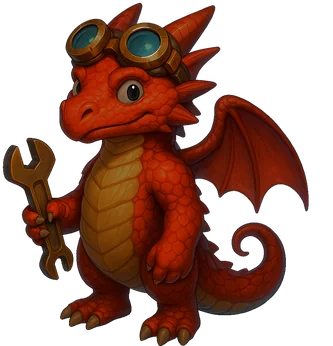
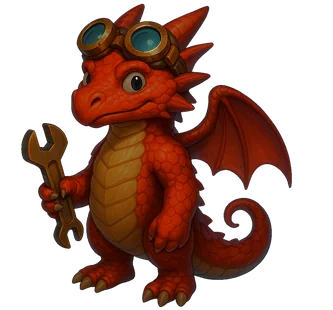
Hoardling: build 6fe3e2d8b9

diff --git a/hoardling/game.js b/hoardling/game.js
@@ -1967,6 +1967,7 @@
       keep:      'art/keep.png',
       mound:     'art/gold_mound.png',
       hero:      'art/hero_whelp.png',
+      hero_breathe: 'art/hero_breathe.png',
       hero_back: 'art/hero_back.png',
       // MANNING POSE -- he HOVERS beside the machine and works it, wings out.
       // Standing the rest plate next to a machine read as loitering (VANUS:
@@ -2737,11 +2738,15 @@
       if (hMoving) this.hero.rotation.y = Math.atan2(hh.tx - hh.x, hh.ty - hh.y);
       this.hero.userData['wing-1'].rotation.z = -0.45 - Math.sin(now * 7) * 0.18;
       this.hero.userData['wing1'].rotation.z = 0.45 + Math.sin(now * 7) * 0.18;
-      // MOUTH-ORIGIN FIRE, 3D half: same beat clock as the 2D jaw
-      // (game._breathT 0.42 -> 0), so both renderers fire from one moment
+      // MOUTH-ORIGIN FIRE, 3D half: same beat clock as the 2D jaw, so both
+      // renderers fire from one moment. READ THE CONSTANT — this divided by a
+      // hardcoded 0.42 while BREATH_BEAT is 0.60, so for the first 30% of every
+      // beat sin() was past pi and `open` came back NEGATIVE: the 3D jaw hinged
+      // the WRONG WAY, then snapped through zero. The comment claiming the two
+      // renderers shared a moment is exactly what stopped anyone checking.
       var bt = game._breathT || 0;
       if (this.hero.userData.jaw) {
-        var open = bt > 0 ? Math.sin((bt / 0.42) * Math.PI) : 0;
+        var open = bt > 0 ? Math.sin(Math.min(1, bt / BREATH_BEAT) * Math.PI) : 0;
         this.hero.userData.jaw.rotation.x = open * 0.85;           // jaw drops
         this.hero.userData.jaw.position.y = 24.2 - open * 2.6;
         this.hero.userData.head.rotation.x = -open * 0.30;         // head kicks back
@@ -4698,7 +4703,7 @@
         // the one thing the game is named after looked like it came out of the
         // floor. The muzzle offset is a RENDER fact (sprite height, facing), so
         // it is computed here in the cosmetic lane and never enters the sim.
-        var mz = this._muzzle();
+        var mz = this._muzzle(true);   // the breath plate is what draws this frame
         // VANUS: "the fire that he makes he doesnt look like hes spitting it".
         // Three separate reasons, all fixed here:
         //  1. THE BEAT WAS 0.42s -- a blink. The open jaw, the head recoil and
@@ -4868,8 +4873,18 @@
   // its height sliced flat off the right edge — see art/hero_whelp_CLIPPED_backup.png).
   // HERO_H drives the sprite instead of a fixed WIDTH: front and back plates have
   // different aspects, so a fixed width made him CHANGE HEIGHT when he turned away.
-  var HERO_H = 57.2;
-  var MUZZLE_UP = 0.685, MUZZLE_FWD = 0.321;
+  // 57.2 -> 57.994 and MUZZLE_FWD 0.321 -> 0.285 when hero_whelp was REPACKED
+  // (693x720 -> 783x730) to share a canvas with hero_breathe. Both numbers are
+  // fractions OF THE CANVAS, so growing it to admit a frame changes what they
+  // mean; the height bump holds his drawn body at exactly its old size and the
+  // muzzle was carried through the pack transform, not re-guessed.
+  var HERO_H = 57.994;
+  var MUZZLE_UP = 0.685, MUZZLE_FWD = 0.285;
+  // The BREATH plate is a different pose -- head thrust forward and down, jaws
+  // open -- so his mouth is not where the closed-muzzle plate's is. Measured off
+  // art/hero_breathe.png at the front of the gullet fire. Using the idle numbers
+  // here is how fire ends up leaving his forehead.
+  var MUZZLE_B_UP = 0.616, MUZZLE_B_FWD = 0.263;
   /// WHERE WICK IS DRAWN, and how big -- the single source both the drawer and
   /// _muzzle() read. They used to disagree: the drawer lifted him 26px onto a
   /// machine and _muzzle() went on reporting his mouth at ground level, so a
@@ -4885,9 +4900,14 @@
     return { x: tw.x + mnt.dx * g, y: tw.y, s: MAN_SCALE, lift: mnt.up * g };
   };
 
-  Game.prototype._muzzle = function () {
+  // onBreath: the particle burst fires on the SAME frame the breath plate swaps
+  // in, so it must use that plate's mouth. It is an argument and not a read of
+  // _breathT because _cosmetic() spends the fx queue BEFORE _breathT is set --
+  // reading the flag here would put the first burst on the closed-mouth muzzle
+  // every single time, which is the drift this function was written to end.
+  Game.prototype._muzzle = function (onBreath) {
     var h = this.hero;
-    var img = ART.images.hero_whelp || ART.images.hero;
+    var img = (onBreath && ART.images.hero_breathe) || ART.images.hero;
     var a = this._heroAnchor();
     var hh = HERO_H * a.s;
     var mw2 = hh * (img ? img.width / img.height : 0.77);
@@ -4897,7 +4917,9 @@
     // lag by a frame — _cosmetic() spends the fx queue BEFORE draw() runs — so
     // a breath cast in the same frame he turns would leave his mouth.
     var f = (h.tx - h.x) > 0.5 ? 1 : -1;
-    return { x: a.x + f * (mw2 * MUZZLE_FWD), y: a.y + 5 - a.lift - hh * MUZZLE_UP, f: f };
+    var mf = onBreath ? MUZZLE_B_FWD : MUZZLE_FWD;
+    var mu = onBreath ? MUZZLE_B_UP : MUZZLE_UP;
+    return { x: a.x + f * (mw2 * mf), y: a.y + 5 - a.lift - hh * mu, f: f };
   };
 
   Game.prototype._burst = function (x, y, c, n, v) {
@@ -6097,6 +6119,15 @@
            : wph < 3.142 ? ART.images.hero_man
            : wph < 4.712 ? (wup || ART.images.hero_man)
            : ART.images.hero_man;
+    } else if (this._breathT > 0 && ART.images.hero_breathe) {
+      // THE OPEN JAW IS A FRAME, NOT PAINT. The idle plate has a closed muzzle,
+      // and the dark ellipse this used to stamp on it to fake an open mouth
+      // reads -- magnified -- as a black bar punched through his cheek. VANUS:
+      // "the fire that he makes he doesnt look like hes spitting it". This is
+      // the generated breath pose with its baked plume cut off (tools/
+      // cut_plume.py), registered and packed onto the idle plate's own canvas,
+      // so swapping to it cannot move or resize him.
+      himg = ART.images.hero_breathe;
     } else {
       himg = (goingAway && ART.images.hero_back) ? ART.images.hero_back : ART.images.hero;
     }
@@ -6186,17 +6217,22 @@
       // the sprite's own transform, so the mirror puts it on whichever side he
       // is facing and it can never drift off his face.
       if (b > 0.01) {
-        var mx = -hw0 * MUZZLE_FWD, my = -hh0 * MUZZLE_UP;
+        var onBreathPlate = himg === ART.images.hero_breathe;
+        var mx = -hw0 * (onBreathPlate ? MUZZLE_B_FWD : MUZZLE_FWD);
+        var my = -hh0 * (onBreathPlate ? MUZZLE_B_UP : MUZZLE_UP);
         var open = Math.sin(Math.min(1, b * 1.35) * Math.PI) * 0.9 + 0.1;
         ctx.save();
         ctx.translate(mx, my);
         ctx.scale(1, open);
-        ctx.fillStyle = 'rgba(28,8,4,0.92)';                 // the open throat
-        ctx.beginPath(); ctx.ellipse(0, 0, 5.2, 4.6, 0, 0, 6.283); ctx.fill();
-        ctx.fillStyle = 'rgba(255,120,40,0.85)';             // fire down the gullet
-        ctx.beginPath(); ctx.ellipse(-0.6, 0.6, 3.4, 3.0, 0, 0, 6.283); ctx.fill();
-        ctx.fillStyle = 'rgba(255,240,190,0.9)';
-        ctx.beginPath(); ctx.ellipse(-1.0, 0.8, 1.6, 1.4, 0, 0, 6.283); ctx.fill();
+        // NO DARK CAVITY. The painted plate has a CLOSED muzzle, so a near-black
+        // ellipse stamped on it does not read as an open mouth -- magnified, it
+        // is a black bar punched through his cheek. On a closed snout the only
+        // honest tell is HEAT: the lips glow, the fire leaves, the head kicks.
+        // (The real open jaw is the sprite swap below, not paint.)
+        ctx.fillStyle = 'rgba(255,150,60,0.55)';
+        ctx.beginPath(); ctx.ellipse(-0.6, 0.4, 4.2, 3.8, 0, 0, 6.283); ctx.fill();
+        ctx.fillStyle = 'rgba(255,236,180,0.75)';
+        ctx.beginPath(); ctx.ellipse(-1.2, 0.6, 2.2, 2.0, 0, 0, 6.283); ctx.fill();
         ctx.restore();
         // the jet leaving the mouth, drawn in the sprite's local frame so it
         // always leaves the snout and never the floor
@@ -6207,40 +6243,61 @@
         var jb = Math.sin(Math.min(1, b * 1.25) * Math.PI);
         var jl = 30 + 52 * (1 - b);            // it REACHES as the beat plays out
         var jw = 5 + 17 * (1 - b);             // and spreads
-        ctx.globalCompositeOperation = 'lighter';
-        for (var jp = 0; jp < 2; jp++) {       // outer flame, then the white core
-          var k2 = jp ? 0.42 : 1;
-          var jg = ctx.createLinearGradient(mx, my, mx - jl * k2, my);
-          if (jp) {
-            jg.addColorStop(0, 'rgba(255,252,235,' + (0.95 * jb).toFixed(3) + ')');
-            jg.addColorStop(1, 'rgba(255,220,140,0)');
-          } else {
-            jg.addColorStop(0.00, 'rgba(255,236,170,' + (0.90 * jb).toFixed(3) + ')');
-            jg.addColorStop(0.40, 'rgba(255,150,50,' + (0.72 * jb).toFixed(3) + ')');
-            jg.addColorStop(1.00, 'rgba(210,60,20,0)');
-          }
+        // TONGUES, NOT A CONE, AND NOT ALL ADDITIVE. Two smooth quadratic
+        // cones stacked read as a gradient blob -- VANUS: "the breath flame
+        // could look better". The first rebuild made five tongues but drew them
+        // ALL under 'lighter', and five overlapping additive shapes sum to a
+        // flat white lozenge: the silhouettes that were the whole point got
+        // erased by their own brightness. So the four body tongues are drawn
+        // NORMALLY -- overlapping opaque leaves at spread angles, which is what
+        // gives fire its ragged moving edge -- and only the small core is
+        // additive. Cosmetic lane: the flicker rides worldT (render time).
+        var JT = [
+          { a: -0.54, l: 0.60, w: 0.40, f: 23, c0: '255,166,52', c1: '172,40,10' , al: 0.70 },
+          { a:  0.51, l: 0.56, w: 0.38, f: 19, c0: '255,156,44', c1: '164,36,9'  , al: 0.70 },
+          { a: -0.21, l: 0.93, w: 0.70, f: 27, c0: '255,194,90', c1: '196,56,14' , al: 0.82 },
+          { a:  0.23, l: 1.00, w: 0.74, f: 31, c0: '255,186,78', c1: '190,52,12' , al: 0.80 },
+        ];
+        var CORE = { a: 0.02, l: 0.36, w: 0.26, f: 37, c0: '255,248,228', c1: '255,186,100', al: 0.46 };
+        function tongue(T2, jp) {
+          // each tongue flickers on its OWN clock, so the tips never line up
+          var fk = 0.80 + 0.20 * Math.sin(ht * T2.f + jp * 1.7);
+          var tl = jl * T2.l * fk, tw2 = jw * T2.w * fk;
+          var ca = Math.cos(T2.a), sa = Math.sin(T2.a);
+          var tx = mx - tl * ca, ty = my + tl * sa;     // the muzzle axis runs -x
+          var jg = ctx.createLinearGradient(mx, my, tx, ty);
+          jg.addColorStop(0.00, 'rgba(' + T2.c0 + ',' + (T2.al * jb).toFixed(3) + ')');
+          jg.addColorStop(0.55, 'rgba(' + T2.c1 + ',' + (T2.al * 0.62 * jb).toFixed(3) + ')');
+          jg.addColorStop(1.00, 'rgba(' + T2.c1 + ',0)');
           ctx.fillStyle = jg;
+          // a leaf: pinched at the lips, belled out, pinched again at the tip
           ctx.beginPath();
-          ctx.moveTo(mx, my - 3.2 * open);
-          ctx.quadraticCurveTo(mx - jl * k2 * 0.55, my - jw * k2 * 0.55,
-                               mx - jl * k2, my - jw * k2);
-          ctx.quadraticCurveTo(mx - jl * k2 * 1.06, my, mx - jl * k2, my + jw * k2);
-          ctx.quadraticCurveTo(mx - jl * k2 * 0.55, my + jw * k2 * 0.55,
-                               mx, my + 3.2 * open);
+          ctx.moveTo(mx, my - 3.0 * open);
+          ctx.quadraticCurveTo(mx - tl * 0.45 * ca - tw2 * sa,
+                               my + tl * 0.45 * sa - tw2 * ca, tx, ty);
+          ctx.quadraticCurveTo(mx - tl * 0.45 * ca + tw2 * sa,
+                               my + tl * 0.45 * sa + tw2 * ca, mx, my + 3.0 * open);
           ctx.closePath(); ctx.fill();
         }
+        for (var jp = 0; jp < JT.length; jp++) tongue(JT[jp], jp);   // silhouette
+        ctx.globalCompositeOperation = 'lighter';
+        tongue(CORE, 4);                                            // the heat
         // Muzzle bloom — the light the jet throws back onto his own snout.
         // BIASED FORWARD. Centred on the muzzle at r=16 it reached 21 world
         // units BEHIND his head (measured off the canvas: recoil suppressed,
         // fire alone still lit pixels a third of a body-length back), which
         // read as a pale bar across his brow rather than as flame. Offsetting
         // the centre down the jet keeps the backscatter to a few units.
-        var mbx = mx - 7;
-        var mb = ctx.createRadialGradient(mbx, my, 0, mbx, my, 12);
-        mb.addColorStop(0, 'rgba(255,210,130,' + (0.55 * jb).toFixed(3) + ')');
+        // Pushed FURTHER down the jet and dimmed. At mx-7/r12/0.55 the bloom
+        // and the hot core between them painted straight over the open jaw, so
+        // the one thing the beat exists to show -- VANUS: "he doesnt look like
+        // hes spitting it" -- was buried under its own glow.
+        var mbx = mx - 13;
+        var mb = ctx.createRadialGradient(mbx, my, 0, mbx, my, 11);
+        mb.addColorStop(0, 'rgba(255,210,130,' + (0.38 * jb).toFixed(3) + ')');
         mb.addColorStop(1, 'rgba(255,160,60,0)');
         ctx.fillStyle = mb;
-        ctx.beginPath(); ctx.arc(mbx, my, 12, 0, 6.283); ctx.fill();
+        ctx.beginPath(); ctx.arc(mbx, my, 11, 0, 6.283); ctx.fill();
         ctx.globalCompositeOperation = 'source-over';
       }
       ctx.restore();
@@ -7250,8 +7307,29 @@
       // the front lip is the SAME asset at the SAME x/width/baseline, so the
       // two halves cannot misregister — it must track the sizing above
       var lH = 190, lW = lH * (mound.width / mound.height), lX = 210 - lW / 2;
-      ctx.drawImage(mound, 0, mound.height * 0.78, mound.width, mound.height * 0.22,
-                    lX, 300 - lH * 0.22, lW, lH * 0.22);
+      // FEATHER ITS TOP EDGE. The lip is a horizontal SLICE of the mound, so it
+      // has a dead-straight top — and it lands at y 258 while Wick's feet are at
+      // 264, which drew a ruler-straight line across his legs. VANUS: "wicks
+      // foot is cut off on the bottom if you look". It was never a crop; it was
+      // this seam. Fading the top ~35% of the slice to nothing lets his feet
+      // sink INTO the coins instead of being sliced off by them. Cached: the
+      // feathered lip is built once, not per frame.
+      var lip = this._titleLip;
+      if (!lip) {
+        lip = document.createElement('canvas');
+        lip.width = mound.width; lip.height = Math.round(mound.height * 0.22);
+        var lx = lip.getContext('2d');
+        lx.drawImage(mound, 0, mound.height * 0.78, mound.width, lip.height,
+                     0, 0, lip.width, lip.height);
+        lx.globalCompositeOperation = 'destination-out';
+        var lg = lx.createLinearGradient(0, 0, 0, lip.height * 0.38);
+        lg.addColorStop(0, 'rgba(0,0,0,1)');
+        lg.addColorStop(1, 'rgba(0,0,0,0)');
+        lx.fillStyle = lg;
+        lx.fillRect(0, 0, lip.width, lip.height * 0.38);
+        this._titleLip = lip;
+      }
+      ctx.drawImage(lip, lX, 300 - lH * 0.22, lW, lH * 0.22);
     }
     embers(ctx, t, 18, 22, 1.4, 0.70);         // near-field parallax layer
 

diff --git a/hoardling/index.html b/hoardling/index.html
@@ -9,9 +9,9 @@
   <title>Hoardling</title>
   <meta name="theme-color" content="#17100e">
   <!-- installable PWA: "Add to Home Screen" gives a fullscreen portrait app -->
-  <link rel="manifest" href="manifest.json?v=faebf6d919">
-  <link rel="icon" type="image/png" sizes="192x192" href="art/icon-192.png?v=faebf6d919">
-  <link rel="apple-touch-icon" href="art/icon-180.png?v=faebf6d919">
+  <link rel="manifest" href="manifest.json?v=6fe3e2d8b9">
+  <link rel="icon" type="image/png" sizes="192x192" href="art/icon-192.png?v=6fe3e2d8b9">
+  <link rel="apple-touch-icon" href="art/icon-180.png?v=6fe3e2d8b9">
   <meta name="apple-mobile-web-app-capable" content="yes">
   <meta name="apple-mobile-web-app-status-bar-style" content="black-translucent">
   <meta name="apple-mobile-web-app-title" content="Hoardling">
@@ -48,7 +48,7 @@
     @media (prefers-reduced-motion:reduce){
       #boot-ember{display:none}#boot-fill{transition:none}#boot{transition:none}}
   </style>
-  <link rel="stylesheet" href="style.css?v=faebf6d919">
+  <link rel="stylesheet" href="style.css?v=6fe3e2d8b9">
 </head>
 <body>
   <div id="game-wrap">
@@ -69,9 +69,9 @@
     <div id="boot-note">stoking the forge</div>
   </div>
   <!-- optional leaderboard config; a 404 here is fine (board stays off) -->
-  <script>window.__BUILD__="faebf6d919";window.__ART_EXT__="webp";</script>
+  <script>window.__BUILD__="6fe3e2d8b9";window.__ART_EXT__="webp";</script>
   <script>(function(){var B=window.__BUILD__;function chk(){fetch("build.txt?ts="+Date.now(),{cache:"no-store"}).then(function(r){return r.ok?r.text():""}).then(function(t){t=(t||"").trim();if(!t||t===B)return;try{if(sessionStorage.getItem("hl.rl")===t)return;sessionStorage.setItem("hl.rl",t);}catch(e){}location.reload();}).catch(function(){});}chk();document.addEventListener("visibilitychange",function(){if(!document.hidden)chk();});})();</script>
-  <script src="lb-config.js?v=faebf6d919"></script>
-  <script src="game.js?v=faebf6d919" defer></script>
+  <script src="lb-config.js?v=6fe3e2d8b9"></script>
+  <script src="game.js?v=6fe3e2d8b9" defer></script>
 </body>
 </html>
